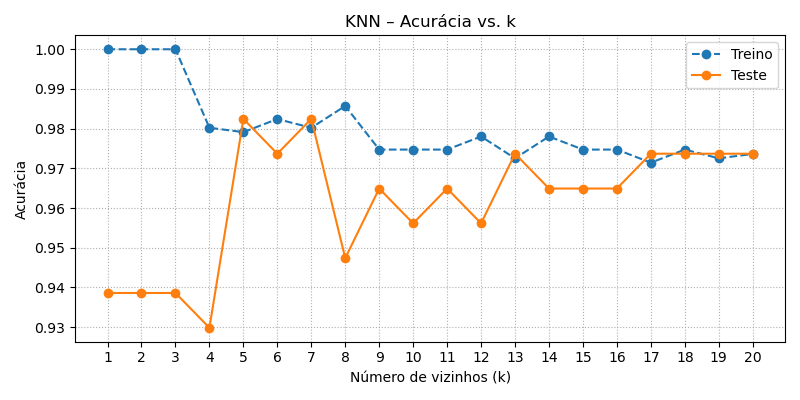
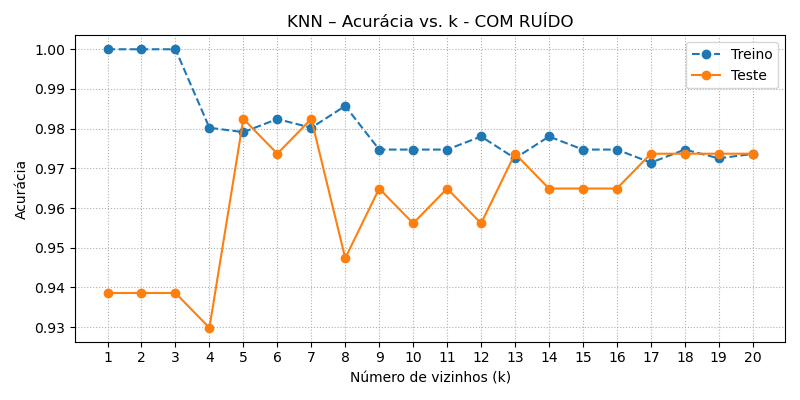
tp2

Changed region(s): [[0.3438, 0.03, 0.7188, 0.09]]

diff --git a/tp2/tp2.py b/tp2/tp2.py
@@ -95,6 +95,35 @@ def carrega_processa_com_ruido(
     return X_train_scaled, X_test_scaled, y_train_aug, y_test
 
 
+def carrega_processa_regressao(
+        test_size: float = 0.2,
+        random_state: int | None = 42,
+):
+    raw = load_breast_cancer()
+    df = pd.DataFrame(raw.data, columns=raw.feature_names)
+
+    y = df["mean area"]
+    X = df.drop(columns=["mean area"])
+
+    X_train, X_test, y_train, y_test = train_test_split(
+        X, y, test_size=test_size, random_state=random_state
+    )
+
+    scaler = StandardScaler()
+    X_train_scaled = pd.DataFrame(
+        scaler.fit_transform(X_train),
+        columns=X_train.columns,
+        index=X_train.index,
+    )
+    X_test_scaled = pd.DataFrame(
+        scaler.transform(X_test),
+        columns=X_test.columns,
+        index=X_test.index,
+    )
+
+    return X_train_scaled, X_test_scaled, y_train, y_test
+
+
 def treina_avalia_lr(
         X_train: pd.DataFrame,
         X_test: pd.DataFrame,
@@ -106,7 +135,7 @@ def treina_avalia_lr(
     model.fit(X_train, y_train)
 
     y_pred_test = model.predict(X_test)
-    residuals = pd.Series(y_test - y_pred_test, index=y_test.index, name="residual")
+    residuals = pd.Series(y_test - y_pred_test, index=y_test.index)
 
     mse = mean_squared_error(y_test, y_pred_test)
     rmse = np.sqrt(mse)
@@ -123,13 +152,26 @@ def treina_avalia_lr(
     }
 
     if verbose:
-        print("\n▸ Regressão Linear")
-        print(f"MAE   : {mae:.4f}")
-        print(f"MSE   : {mse:.4f}")
-        print(f"RMSE  : {rmse:.4f}")
+        print("\n▸ Regressão Linear – alvo: mean area")
+        print(f"MAE   : {mae:.2f}")
+        print(f"RMSE  : {rmse:.2f}")
         print(f"R²    : {r2:.4f}")
-        print(f"Média dos resíduos : {metrics['mean_residual']:.5f}")
-        print(f"Desvio-padrão res. : {metrics['std_residual']:.5f}")
+        print(f"Média resíduo : {metrics['mean_residual']:.2f}")
+        print(f"DP resíduos   : {metrics['std_residual']:.2f}")
+
+    fig, ax = plt.subplots(1, 2, figsize=(10, 4))
+    ax[0].scatter(y_pred_test, residuals, alpha=0.6)
+    ax[0].axhline(0, color="red", lw=1)
+    ax[0].set_xlabel("ŷ (predito)")
+    ax[0].set_ylabel("resíduo")
+    ax[0].set_title("Resíduos vs. valores preditos")
+
+    ax[1].hist(residuals, bins=20, edgecolor="k")
+    ax[1].set_xlabel("resíduo")
+    ax[1].set_ylabel("freq.")
+    ax[1].set_title("Distribuição dos resíduos")
+    plt.tight_layout()
+    plt.savefig("regressaoLinear.png")
 
     return model, metrics, residuals
 
@@ -142,7 +184,6 @@ def treina_avalia_knn(
         k: int = 5,
         verbose: bool = True,
 ):
-
     model = KNeighborsClassifier(n_neighbors=k)
     model.fit(X_train, y_train)
 
@@ -199,7 +240,10 @@ def analisa_var_k(
         plt.plot(df["k"], df["test_accuracy"], "o-", label="Teste")
         plt.xlabel("Número de vizinhos (k)")
         plt.ylabel("Acurácia")
-        plt.title("KNN – Acurácia vs. k")
+        if com_ruido:
+            plt.title("KNN – Acurácia vs. k - COM RUÍDO")
+        else:
+            plt.title("KNN – Acurácia vs. k - SEM RUÍDO")
         plt.xticks(df["k"])
         plt.grid(True, ls=":")
         plt.legend()
@@ -224,10 +268,6 @@ if __name__ == "__main__":
     print(f"\nMelhor k = {best_k} | acurácia teste = {best_row['test_accuracy']:.4f}")
 
     _, _ = treina_avalia_knn(X_train_scaled, X_test_scaled, y_train, y_test, k=best_k)
-    _, lr_metrics, lr_res = treina_avalia_lr(X_train_scaled,
-                                             X_test_scaled,
-                                             y_train, y_test,
-                                             verbose=True)
 
     print("=========================Resultado COM ruido==========================")
     df_k_ruido = analisa_var_k(X_train_scaled_ruido, X_test_scaled_ruido, y_train_ruido, y_test_ruido, k_min=1,
@@ -238,7 +278,9 @@ if __name__ == "__main__":
     print(f"\nMelhor k = {best_k_ruido} | acurácia teste = {best_row_ruido['test_accuracy']:.4f}")
 
     _, _ = treina_avalia_knn(X_train_scaled_ruido, X_test_scaled_ruido, y_train_ruido, y_test_ruido, k=best_k_ruido)
-    _, lr_metrics_ruido, lr_res_ruido = treina_avalia_lr(X_train_scaled_ruido,
-                                                         X_test_scaled_ruido,
-                                                         y_train_ruido, y_test_ruido,
-                                                         verbose=True)
+
+    print("=========================REGRESSÃO LINEAR==========================")
+    Xtr_r, Xte_r, ytr_r, yte_r = carrega_processa_regressao()
+    _, reg_metrics, _ = treina_avalia_lr(
+        Xtr_r, Xte_r, ytr_r, yte_r, verbose=True
+    )
